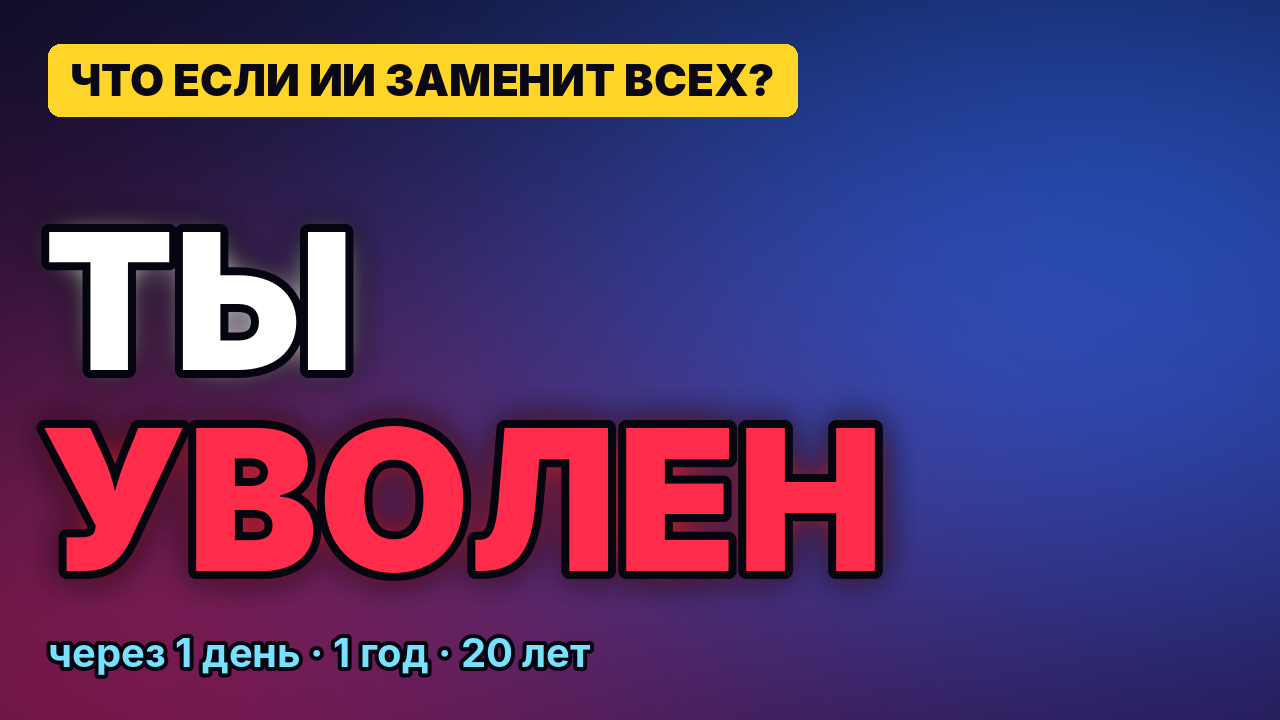
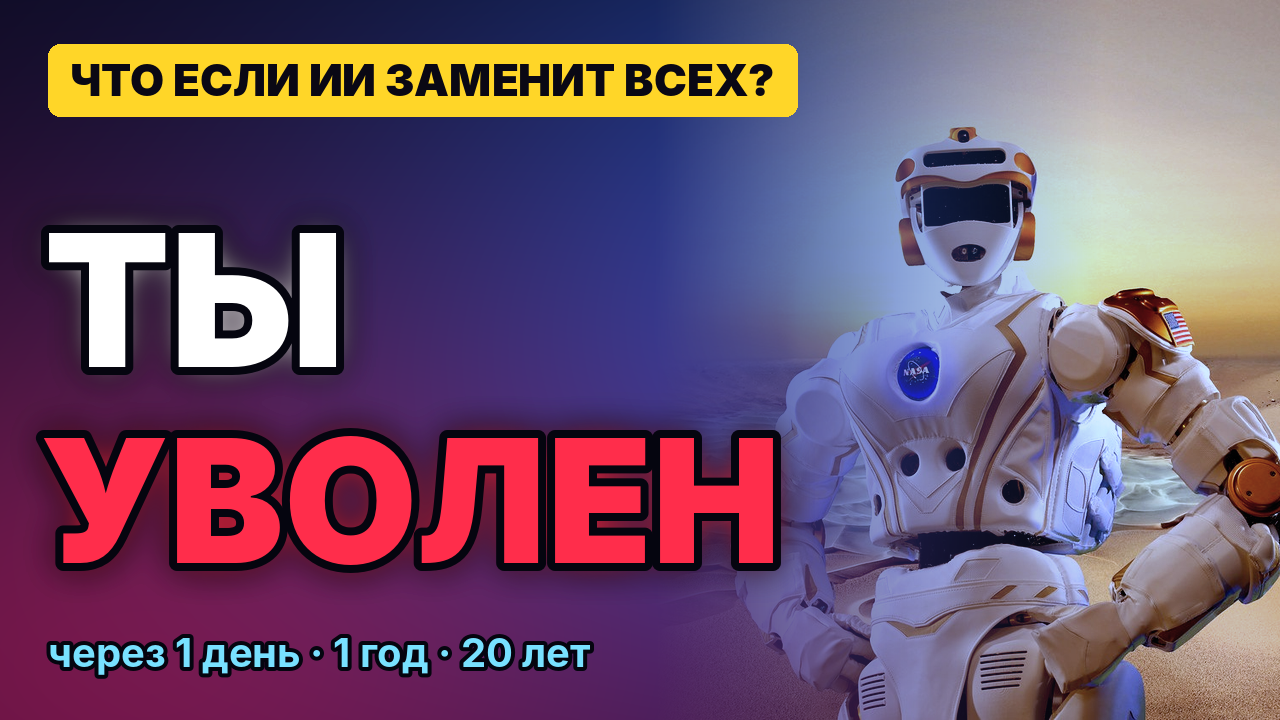
Pick final photos (Wikimedia + Openverse/Flickr), thumbnail with robot, credits
Claude-Session: https://claude.ai/code/session_01WPtja9hGc52C6fADWgZhhK

diff --git a/whatif_ai_jobs/docs.py b/whatif_ai_jobs/docs.py
@@ -127,15 +127,17 @@ def sources_md():
     lines += ["", "Сценарные элементы (обвал биржевого индекса, «утопия/антиутопия», сроки «день/месяц/год») — "
               "мысленный эксперимент; на экране помечены как иллюстрация сценария.", "",
               "## Изображения", "",
-              "Все фото — Wikimedia Commons, только лицензии, разрешающие коммерческое использование без "
-              "«копилефта»: Public domain, CC0, CC BY. Фото обработаны (цветокоррекция, кадрирование, движение камеры). "
+              "Фото — Wikimedia Commons и Flickr (поиск через Openverse). Только лицензии, разрешающие "
+              "коммерческое использование без «копилефта»: Public domain / Public Domain Mark, CC0, CC BY. "
+              "CC BY-SA, NC и ND не использовались. Фото обработаны (цветокоррекция, кадрирование, движение камеры). "
               "Инфографика, заставки, графики и превью нарисованы кодом (Python/Pillow) специально для ролика.", "",
-              "| Ключ | Файл | Автор | Лицензия | Ссылка |", "|---|---|---|---|---|"]
+              "| Ключ | Название | Автор | Лицензия | Источник | Ссылка |", "|---|---|---|---|---|---|"]
     for key, c in image_credits():
         author = re.sub(r"\s+", " ", c["author"]).replace("|", "/")[:80]
         title = c["title"].replace("File:", "").replace("|", "/")
         lic = c["license"] + (f" ({c['license_url']})" if c.get("license_url") else "")
-        lines.append(f"| {key} | {title} | {author} | {lic} | {c['page']} |")
+        src = c.get("source", "Wikimedia Commons")
+        lines.append(f"| {key} | {title} | {author} | {lic} | {src} | {c['page']} |")
     lines += ["", "## Музыка и звук", "",
               "Оригинальная процедурная электронная/эмбиент-музыка, сгенерированная кодом для этого ролика "
               "(модуль `ai_shorts_ru/shorts_ru/audio.py`): своя тема на каждую главу. Сторонних треков нет — "
@@ -163,10 +165,10 @@ def youtube_md():
 Источники:
 Goldman Sachs (2023) · McKinsey Global Institute «Agents, robots, and us» (2025) · WEF Future of Jobs Report 2025 · Microsoft Research (2025) · Kela/STM (Финляндия) · GiveDirectly (Кения) · SEED (Стоктон) · OpenResearch · CBO · USDA ERS · J. Bessen. Полный список ссылок — в закреплённом комментарии.
 
-Фото: Wikimedia Commons (Public domain / CC0 / CC BY, авторы указаны в закреплённом комментарии). Музыка: оригинальная. Голос: синтез речи.
+Фото: Wikimedia Commons и Flickr (Public domain / CC0 / CC BY, авторы — в закреплённом комментарии). Музыка: оригинальная. Голос: синтез речи.
 
 {HASHTAGS}"""
-    credits = ["Фото (Wikimedia Commons):"]
+    credits = ["Фото (Wikimedia Commons, Flickr):"]
     for key, c in image_credits():
         author = re.sub(r"\s+", " ", c["author"])[:60]
         credits.append(f"• {author} — {c['license']} — {c['page']}")

diff --git a/whatif_ai_jobs/fetch_openverse.py b/whatif_ai_jobs/fetch_openverse.py
@@ -61,7 +61,7 @@ def search(query, n):
     return out
 
 
-def main(only=None):
+def main(only=None, override=None):
     sys.path.insert(0, str(ROOT))
     from shots import ASSETS
     meta_path = ROOT / "build" / "images.json"
@@ -82,7 +82,7 @@ def main(only=None):
         have = [i for i in range(len(meta.get(key, []))) if (IMG / f"{key}_{i}.jpg").exists()]
         if have and not only:
             continue
-        cands = search(query, 3)
+        cands = search((override or {}).get(key, query), 3)
         got = []
         for c in cands:
             data = get(c["url"])
@@ -100,4 +100,6 @@ def main(only=None):
 
 
 if __name__ == "__main__":
-    main(set(sys.argv[1:]) or None)
+    args = sys.argv[1:]
+    ov = dict(a.split("=", 1) for a in args if "=" in a)     # ключ=новый|запрос
+    main({a.split("=", 1)[0] for a in args} or None, ov)

diff --git a/whatif_ai_jobs/render.py b/whatif_ai_jobs/render.py
@@ -709,10 +709,12 @@ class Renderer:
         order = self.choice.get(key, avail)
         if isinstance(order, int):
             order = [order] + [i for i in avail if i != order]
-        order = [i for i in order if i in avail]
-        if not order:
+        # элемент списка: номер варианта этого ключа или «другой_ключ_N» (фото из другого набора)
+        files = [IMG / f"{key}_{o}.jpg" if isinstance(o, int) else IMG / f"{o}.jpg" for o in order]
+        files = [f for f in files if f.exists()]
+        if not files:
             return None
-        return str(IMG / f"{key}_{order[n % len(order)]}.jpg")
+        return str(files[n % len(files)])
 
     def idx_at(self, t):
         import bisect

diff --git a/whatif_ai_jobs/sources.md b/whatif_ai_jobs/sources.md
@@ -46,22 +46,66 @@
 
 ## Изображения
 
-Все фото — Wikimedia Commons, только лицензии, разрешающие коммерческое использование без «копилефта»: Public domain, CC0, CC BY. Фото обработаны (цветокоррекция, кадрирование, движение камеры). Инфографика, заставки, графики и превью нарисованы кодом (Python/Pillow) специально для ролика.
+Фото — Wikimedia Commons и Flickr (поиск через Openverse). Только лицензии, разрешающие коммерческое использование без «копилефта»: Public domain / Public Domain Mark, CC0, CC BY. CC BY-SA, NC и ND не использовались. Фото обработаны (цветокоррекция, кадрирование, движение камеры). Инфографика, заставки, графики и превью нарисованы кодом (Python/Pillow) специально для ролика.
 
-| Ключ | Файл | Автор | Лицензия | Ссылка |
-|---|---|---|---|---|
-| office_empty | Empty office.jpg | Ged Carroll | CC BY 2.0 (https://creativecommons.org/licenses/by/2.0) | https://commons.wikimedia.org/wiki/File:Empty_office.jpg |
-| office_empty | Empty Oval Office in The White House - DPLA - a210b70429be57def74b3c6c603b6d89.jpg | President (1981-1989 : Reagan). White House Photographic Office. 1981-1989 | Public domain | https://commons.wikimedia.org/wiki/File:Empty_Oval_Office_in_The_White_House_-_DPLA_-_a210b70429be57def74b3c6c603b6d89.jpg |
-| office_empty | Photograph of the Oval Office Empty - DPLA - ee727a27b60aac2bf9c349dd57e47d0f.jpg | President (1993-2001 : Clinton). White House Photograph Office. 1/20/1993-1/20/2 | Public domain | https://commons.wikimedia.org/wiki/File:Photograph_of_the_Oval_Office_Empty_-_DPLA_-_ee727a27b60aac2bf9c349dd57e47d0f.jpg |
-| highway_night | Rangpur city highway at night 1.jpg | Cerium4B | CC0 (http://creativecommons.org/publicdomain/zero/1.0/deed.en) | https://commons.wikimedia.org/wiki/File:Rangpur_city_highway_at_night_1.jpg |
-| highway_night | National Highway during night at Lakhara.jpg | Ishanjyotibora | CC BY 4.0 (https://creativecommons.org/licenses/by/4.0) | https://commons.wikimedia.org/wiki/File:National_Highway_during_night_at_Lakhara.jpg |
-| highway_night | Rangpur city highway at night.jpg | Cerium4B | CC0 (http://creativecommons.org/publicdomain/zero/1.0/deed.en) | https://commons.wikimedia.org/wiki/File:Rangpur_city_highway_at_night.jpg |
-| crowd | Crowd crossing the street, Hungary 2011.jpg | Keymeulen | CC0 (http://creativecommons.org/publicdomain/zero/1.0/deed.en) | https://commons.wikimedia.org/wiki/File:Crowd_crossing_the_street,_Hungary_2011.jpg |
-| crowd | Corner of Stockton and Jackson Street, crowd, San Francisco (April 2007).jpg | Jennifer Woodard Maderazo | CC BY 2.0 (https://creativecommons.org/licenses/by/2.0) | https://commons.wikimedia.org/wiki/File:Corner_of_Stockton_and_Jackson_Street,_crowd,_San_Francisco_(April_2007).jpg |
-| crowd | Crowds of French patriots line the Champs Elysees-edit2.jpg | Jack Downey, U.S. Office of War Information | Public domain | https://commons.wikimedia.org/wiki/File:Crowds_of_French_patriots_line_the_Champs_Elysees-edit2.jpg |
-| finance_towers | Buildings in Financial District, Manhattan.jpg | Julian Lupyan | CC0 (http://creativecommons.org/publicdomain/zero/1.0/deed.en) | https://commons.wikimedia.org/wiki/File:Buildings_in_Financial_District,_Manhattan.jpg |
-| finance_towers | Financial District East Skyline, 2025.jpg | Julian Lupyan | CC0 (http://creativecommons.org/publicdomain/zero/1.0/deed.en) | https://commons.wikimedia.org/wiki/File:Financial_District_East_Skyline,_2025.jpg |
-| finance_towers | Skyline of Financial District, Manhattan, 2025.jpg | Julian Lupyan | CC0 (http://creativecommons.org/publicdomain/zero/1.0/deed.en) | https://commons.wikimedia.org/wiki/File:Skyline_of_Financial_District,_Manhattan,_2025.jpg |
+| Ключ | Название | Автор | Лицензия | Источник | Ссылка |
+|---|---|---|---|---|---|
+| office_empty | Empty office.jpg | Ged Carroll | CC BY 2.0 (https://creativecommons.org/licenses/by/2.0) | Wikimedia Commons | https://commons.wikimedia.org/wiki/File:Empty_office.jpg |
+| highway_night | National Highway during night at Lakhara.jpg | Ishanjyotibora | CC BY 4.0 (https://creativecommons.org/licenses/by/4.0) | Wikimedia Commons | https://commons.wikimedia.org/wiki/File:National_Highway_during_night_at_Lakhara.jpg |
+| crowd | Crowd crossing the street, Hungary 2011.jpg | Keymeulen | CC0 (http://creativecommons.org/publicdomain/zero/1.0/deed.en) | Wikimedia Commons | https://commons.wikimedia.org/wiki/File:Crowd_crossing_the_street,_Hungary_2011.jpg |
+| crowd | Corner of Stockton and Jackson Street, crowd, San Francisco (April 2007).jpg | Jennifer Woodard Maderazo | CC BY 2.0 (https://creativecommons.org/licenses/by/2.0) | Wikimedia Commons | https://commons.wikimedia.org/wiki/File:Corner_of_Stockton_and_Jackson_Street,_crowd,_San_Francisco_(April_2007).jpg |
+| finance_towers | Buildings in Financial District, Manhattan.jpg | Julian Lupyan | CC0 (http://creativecommons.org/publicdomain/zero/1.0/deed.en) | Wikimedia Commons | https://commons.wikimedia.org/wiki/File:Buildings_in_Financial_District,_Manhattan.jpg |
+| henry_ford | Andre Citroen rencontre Henry Ford Juin 1923.jpg | Unknown authorUnknown author | Public domain | Wikimedia Commons | https://commons.wikimedia.org/wiki/File:Andre_Citroen_rencontre_Henry_Ford_Juin_1923.jpg |
+| keynes | John Maynard Keynes 1929.jpg | Unknown authorUnknown author | Public domain | Wikimedia Commons | https://commons.wikimedia.org/wiki/File:John_Maynard_Keynes_1929.jpg |
+| laptop_night | laptop night - noche de laptops | 'thöR | CC BY 2.0 (https://creativecommons.org/licenses/by/2.0/) | Openverse / Flickr | https://www.flickr.com/photos/42428589@N00/495988527 |
+| laptop_night | This is how I like to admin | Jemimus | CC BY 2.0 (https://creativecommons.org/licenses/by/2.0/) | Openverse / Flickr | https://www.flickr.com/photos/12967790@N00/4285638187 |
+| laptop_night | Hacking | Johan.V. | CC BY 2.0 (https://creativecommons.org/licenses/by/2.0/) | Openverse / Flickr | https://www.flickr.com/photos/26519208@N04/2498157861 |
+| call_center | Xceed Call centre in Cairo | markhillary | CC BY 2.0 (https://creativecommons.org/licenses/by/2.0/) | Openverse / Flickr | https://www.flickr.com/photos/56087830@N00/3309506859 |
+| call_center | Vodafone call centre | markhillary | CC BY 2.0 (https://creativecommons.org/licenses/by/2.0/) | Openverse / Flickr | https://www.flickr.com/photos/56087830@N00/3309490947 |
+| electrician | Electrician | garryknight | CC BY 2.0 (https://creativecommons.org/licenses/by/2.0/) | Openverse / Flickr | https://www.flickr.com/photos/8176740@N05/15657882247 |
+| electrician | Makita P51851 96 Piece Electricians Kit | toolstop | CC BY 2.0 (https://creativecommons.org/licenses/by/2.0/) | Openverse / Flickr | https://www.flickr.com/photos/42408834@N06/5330227632 |
+| plumber | Keith the plumber Project 365(2) Day 329 | Keith Williamson | CC BY 2.0 (https://creativecommons.org/licenses/by/2.0/) | Openverse / Flickr | https://www.flickr.com/photos/34673186@N03/5306295850 |
+| empty_street | Empty Streets of Birmingham | u07ch | CC BY 2.0 (https://creativecommons.org/licenses/by/2.0/) | Openverse / Flickr | https://www.flickr.com/photos/76705972@N00/29251553196 |
+| empty_street | Empty Streets | lupita.ala | CC BY 2.0 (https://creativecommons.org/licenses/by/2.0/) | Openverse / Flickr | https://www.flickr.com/photos/75691612@N08/6862658630 |
+| park_people | Tai Chi at the People's Park | Wilson Hui | CC BY 2.0 (https://creativecommons.org/licenses/by/2.0/) | Openverse / Flickr | https://www.flickr.com/photos/51942038@N04/12097239876 |
+| atm | automated teller machine machine | lsiegert | CC BY 2.0 (https://creativecommons.org/licenses/by/2.0/) | Openverse / Flickr | https://www.flickr.com/photos/13127104@N08/3334892258 |
+| atm | Glass Tellers | wwward0 | CC BY 2.0 (https://creativecommons.org/licenses/by/2.0/) | Openverse / Flickr | https://www.flickr.com/photos/15802578@N00/18418392694 |
+| mall_empty | Hong Kong: Empty Mall | Yiie | CC BY 2.0 (https://creativecommons.org/licenses/by/2.0/) | Openverse / Flickr | https://www.flickr.com/photos/7342411@N02/4720347876 |
+| warehouse_robot | SpaceX Octaweb | jurvetson | CC BY 2.0 (https://creativecommons.org/licenses/by/2.0/) | Openverse / Flickr | https://www.flickr.com/photos/44124348109@N01/8975298066 |
+| car_robots | 3D Printshow 2014 London - Industrial robot 3D printer v02 | Creative Tools | CC BY 2.0 (https://creativecommons.org/licenses/by/2.0/) | Openverse / Flickr | https://www.flickr.com/photos/33907867@N02/14964195639 |
+| stock_exchange | New York Stock Exchange | David Blaikie | CC BY 2.0 (https://creativecommons.org/licenses/by/2.0/) | Openverse / Flickr | https://www.flickr.com/photos/12568962@N00/3448030730 |
+| banknotes | US dollars and Euros - cash banknotes | Mark Hodson Photos | CC BY 2.0 (https://creativecommons.org/licenses/by/2.0/) | Openverse / Flickr | https://www.flickr.com/photos/20538653@N00/14856861681 |
+| helsinki | Helsinki Cathedral, White Night | Dimitry B | CC BY 2.0 (https://creativecommons.org/licenses/by/2.0/) | Openverse / Flickr | https://www.flickr.com/photos/61533954@N00/9168343124 |
+| helsinki | On the train - Helsinki, Finland - Black and white street photography | Giuseppe Milo (www.pixael.com) | CC BY 2.0 (https://creativecommons.org/licenses/by/2.0/) | Openverse / Flickr | https://www.flickr.com/photos/87690240@N03/27387081943 |
+| kenya_village | Dennis Refugee kid in Mt Kenya Village | Mobilephotos@heidenstrom | CC BY 2.0 (https://creativecommons.org/licenses/by/2.0/) | Openverse / Flickr | https://www.flickr.com/photos/38841280@N03/5554867741 |
+| kenya_village | Masai Mara Tribe Women 2 | The Dilly Lama | CC BY 2.0 (https://creativecommons.org/licenses/by/2.0/) | Openverse / Flickr | https://www.flickr.com/photos/50169083@N00/1199545090 |
+| stockton | Deep Water Channel, Stockton, California. Sunset. | sonstroem | CC BY 2.0 (https://creativecommons.org/licenses/by/2.0/) | Openverse / Flickr | https://www.flickr.com/photos/96964826@N05/31890729246 |
+| coworking | Voisins Coworking / Cafe — 2014-12-03 | Manuel Schmalstieg | CC BY 2.0 (https://creativecommons.org/licenses/by/2.0/) | Openverse / Flickr | https://www.flickr.com/photos/97179825@N00/15751933467 |
+| coworking | Voisins Coworking / Cafe — 2014-12-03 | Manuel Schmalstieg | CC BY 2.0 (https://creativecommons.org/licenses/by/2.0/) | Openverse / Flickr | https://www.flickr.com/photos/97179825@N00/15911884516 |
+| city_night | Oregon City Nights | Ian Sane | CC BY 2.0 (https://creativecommons.org/licenses/by/2.0/) | Openverse / Flickr | https://www.flickr.com/photos/31246066@N04/4210502680 |
+| city_night | City Night Sky | tux0racer | CC BY 2.0 (https://creativecommons.org/licenses/by/2.0/) | Openverse / Flickr | https://www.flickr.com/photos/87060703@N08/8300317020 |
+| textile_mill | No Known Restrictions: Vice-President Lyndon Baines Johnson at Textile Mill, South Vietnam by Thomas J. O'Halloran, May 1961 (LOC) | pingnews.com | Public Domain Mark 1.0 (https://creativecommons.org/publicdomain/mark/1.0/) | Openverse / Flickr | https://www.flickr.com/photos/39735679@N00/501634331 |
+| textile_mill | Abandoned Textile Mill (5) | janbommes | CC BY 2.0 (https://creativecommons.org/licenses/by/2.0/) | Openverse / Flickr | https://www.flickr.com/photos/30036111@N04/10779755053 |
+| luddites | Small power loom | quinet | CC BY 2.0 (https://creativecommons.org/licenses/by/2.0/) | Openverse / Flickr | https://www.flickr.com/photos/91994044@N00/28854325518 |
+| industrial_revolution | The Engine of the Industrial Revolution | selkovjr | CC BY 2.0 (https://creativecommons.org/licenses/by/2.0/) | Openverse / Flickr | https://www.flickr.com/photos/14192663@N07/2173614324 |
+| model_t | Tourists in a Ford Model T at the 'Devil's Den' at Gettysburg Battlefield in Pennsylvania, c1910-1915 | crackdog | Public Domain Mark 1.0 (https://creativecommons.org/publicdomain/mark/1.0/) | Openverse / Flickr | https://www.flickr.com/photos/88645472@N00/6239413521 |
+| model_t | Ford Model T, Yakima, Washington, 1923 | crackdog | Public Domain Mark 1.0 (https://creativecommons.org/publicdomain/mark/1.0/) | Openverse / Flickr | https://www.flickr.com/photos/88645472@N00/4943347151 |
+| model_t | 1916 Ford Model T Speedster, March 26, 1916, California | crackdog | Public Domain Mark 1.0 (https://creativecommons.org/publicdomain/mark/1.0/) | Openverse / Flickr | https://www.flickr.com/photos/88645472@N00/5643782311 |
+| data_center | Data Center Network Core | motleypixel | CC BY 2.0 (https://creativecommons.org/licenses/by/2.0/) | Openverse / Flickr | https://www.flickr.com/photos/16894864@N05/6239564720 |
+| trading_screens | Tickers | francisco.j.gonzalez | CC BY 2.0 (https://creativecommons.org/licenses/by/2.0/) | Openverse / Flickr | https://www.flickr.com/photos/54752966@N06/8085342806 |
+| window_man | untitled | Thomas Leuthard | CC BY 2.0 (https://creativecommons.org/licenses/by/2.0/) | Openverse / Flickr | https://www.flickr.com/photos/41346951@N05/14981603135 |
+| window_man | Another black and with photo with an old man in a window | Cristian Ştefănescu | CC BY 2.0 (https://creativecommons.org/licenses/by/2.0/) | Openverse / Flickr | https://www.flickr.com/photos/46145615@N02/14171645229 |
+| team_meeting | Liip team meeting | lejoe | CC BY 2.0 (https://creativecommons.org/licenses/by/2.0/) | Openverse / Flickr | https://www.flickr.com/photos/21458229@N00/2800660239 |
+| green_city | Green City | alykat | CC BY 2.0 (https://creativecommons.org/licenses/by/2.0/) | Openverse / Flickr | https://www.flickr.com/photos/80081757@N00/5850122 |
+| artist | Art supplies | Average Jane | CC BY 2.0 (https://creativecommons.org/licenses/by/2.0/) | Openverse / Flickr | https://www.flickr.com/photos/64401168@N00/7624350518 |
+| runners | Stockholm Marathon 2006 | Peppe702 | CC BY 2.0 (https://creativecommons.org/licenses/by/2.0/) | Openverse / Flickr | https://www.flickr.com/photos/81812830@N03/7976978042 |
+| family_picnic | Picnic + ma-lu | luis perez | CC BY 2.0 (https://creativecommons.org/licenses/by/2.0/) | Openverse / Flickr | https://www.flickr.com/photos/65092670@N00/4969047988 |
+| slum_towers | Dubai Slums Do Exist | Augapfel | CC BY 2.0 (https://creativecommons.org/licenses/by/2.0/) | Openverse / Flickr | https://www.flickr.com/photos/47038415@N00/3250006311 |
+| programmer | Programmers | Phillie Casablanca | CC BY 2.0 (https://creativecommons.org/licenses/by/2.0/) | Openverse / Flickr | https://www.flickr.com/photos/19451080@N00/3353381517 |
+| programmer | The Exemplary Programmer | illustir | CC BY 2.0 (https://creativecommons.org/licenses/by/2.0/) | Openverse / Flickr | https://www.flickr.com/photos/12505664@N00/9311087323 |
+| programmer | Schipul programmers 2010 (+ special guest Adil) | tendenci | CC BY 2.0 (https://creativecommons.org/licenses/by/2.0/) | Openverse / Flickr | https://www.flickr.com/photos/107430063@N05/13806684563 |
+| humanoid | Humanoid Robot Uprising | jurvetson | CC BY 2.0 (https://creativecommons.org/licenses/by/2.0/) | Openverse / Flickr | https://www.flickr.com/photos/44124348109@N01/52023220709 |
+| humanoid | NASA R5 Valkyrie humanoid robot | Futurilla | CC0 1.0 (https://creativecommons.org/publicdomain/zero/1.0/) | Openverse / Flickr | https://www.flickr.com/photos/52067454@N00/29841969793 |
 
 ## Музыка и звук
 

diff --git a/whatif_ai_jobs/youtube.md b/whatif_ai_jobs/youtube.md
@@ -28,12 +28,12 @@
 Источники:
 Goldman Sachs (2023) · McKinsey Global Institute «Agents, robots, and us» (2025) · WEF Future of Jobs Report 2025 · Microsoft Research (2025) · Kela/STM (Финляндия) · GiveDirectly (Кения) · SEED (Стоктон) · OpenResearch · CBO · USDA ERS · J. Bessen. Полный список ссылок — в закреплённом комментарии.
 
-Фото: Wikimedia Commons (Public domain / CC0 / CC BY, авторы указаны в закреплённом комментарии). Музыка: оригинальная. Голос: синтез речи.
+Фото: Wikimedia Commons и Flickr (Public domain / CC0 / CC BY, авторы — в закреплённом комментарии). Музыка: оригинальная. Голос: синтез речи.
 
 #ЧтоЕсли #ИИ #БудущееРаботы
 ```
 
-Длина описания: 1579 символов (лимит 5000).
+Длина описания: 1582 символов (лимит 5000).
 
 ## Теги (15)
 
@@ -60,22 +60,66 @@ Goldman Sachs (2023) · McKinsey Global Institute «Agents, robots, and us» (20
 • https://0-www-imf-org.library.svsu.edu/external/pubs/ft/fandd/2015/03/pdf/bessen.pdf
 • https://en.wikipedia.org/wiki/Economic_Possibilities_for_our_Grandchildren
 
-Фото (Wikimedia Commons):
+Фото (Wikimedia Commons, Flickr):
 • Ged Carroll — CC BY 2.0 — https://commons.wikimedia.org/wiki/File:Empty_office.jpg
-• President (1981-1989 : Reagan). White House Photographic Off — Public domain — https://commons.wikimedia.org/wiki/File:Empty_Oval_Office_in_The_White_House_-_DPLA_-_a210b70429be57def74b3c6c603b6d89.jpg
-• President (1993-2001 : Clinton). White House Photograph Offi — Public domain — https://commons.wikimedia.org/wiki/File:Photograph_of_the_Oval_Office_Empty_-_DPLA_-_ee727a27b60aac2bf9c349dd57e47d0f.jpg
-• Cerium4B — CC0 — https://commons.wikimedia.org/wiki/File:Rangpur_city_highway_at_night_1.jpg
 • Ishanjyotibora — CC BY 4.0 — https://commons.wikimedia.org/wiki/File:National_Highway_during_night_at_Lakhara.jpg
-• Cerium4B — CC0 — https://commons.wikimedia.org/wiki/File:Rangpur_city_highway_at_night.jpg
 • Keymeulen — CC0 — https://commons.wikimedia.org/wiki/File:Crowd_crossing_the_street,_Hungary_2011.jpg
 • Jennifer Woodard Maderazo — CC BY 2.0 — https://commons.wikimedia.org/wiki/File:Corner_of_Stockton_and_Jackson_Street,_crowd,_San_Francisco_(April_2007).jpg
-• Jack Downey, U.S. Office of War Information — Public domain — https://commons.wikimedia.org/wiki/File:Crowds_of_French_patriots_line_the_Champs_Elysees-edit2.jpg
 • Julian Lupyan — CC0 — https://commons.wikimedia.org/wiki/File:Buildings_in_Financial_District,_Manhattan.jpg
-• Julian Lupyan — CC0 — https://commons.wikimedia.org/wiki/File:Financial_District_East_Skyline,_2025.jpg
-• Julian Lupyan — CC0 — https://commons.wikimedia.org/wiki/File:Skyline_of_Financial_District,_Manhattan,_2025.jpg
+• Unknown authorUnknown author — Public domain — https://commons.wikimedia.org/wiki/File:Andre_Citroen_rencontre_Henry_Ford_Juin_1923.jpg
+• Unknown authorUnknown author — Public domain — https://commons.wikimedia.org/wiki/File:John_Maynard_Keynes_1929.jpg
+• 'thöR — CC BY 2.0 — https://www.flickr.com/photos/42428589@N00/495988527
+• Jemimus — CC BY 2.0 — https://www.flickr.com/photos/12967790@N00/4285638187
+• Johan.V. — CC BY 2.0 — https://www.flickr.com/photos/26519208@N04/2498157861
+• markhillary — CC BY 2.0 — https://www.flickr.com/photos/56087830@N00/3309506859
+• markhillary — CC BY 2.0 — https://www.flickr.com/photos/56087830@N00/3309490947
+• garryknight — CC BY 2.0 — https://www.flickr.com/photos/8176740@N05/15657882247
+• toolstop — CC BY 2.0 — https://www.flickr.com/photos/42408834@N06/5330227632
+• Keith Williamson — CC BY 2.0 — https://www.flickr.com/photos/34673186@N03/5306295850
+• u07ch — CC BY 2.0 — https://www.flickr.com/photos/76705972@N00/29251553196
+• lupita.ala — CC BY 2.0 — https://www.flickr.com/photos/75691612@N08/6862658630
+• Wilson Hui — CC BY 2.0 — https://www.flickr.com/photos/51942038@N04/12097239876
+• lsiegert — CC BY 2.0 — https://www.flickr.com/photos/13127104@N08/3334892258
+• wwward0 — CC BY 2.0 — https://www.flickr.com/photos/15802578@N00/18418392694
+• Yiie — CC BY 2.0 — https://www.flickr.com/photos/7342411@N02/4720347876
+• jurvetson — CC BY 2.0 — https://www.flickr.com/photos/44124348109@N01/8975298066
+• Creative Tools — CC BY 2.0 — https://www.flickr.com/photos/33907867@N02/14964195639
+• David Blaikie — CC BY 2.0 — https://www.flickr.com/photos/12568962@N00/3448030730
+• Mark Hodson Photos — CC BY 2.0 — https://www.flickr.com/photos/20538653@N00/14856861681
+• Dimitry B — CC BY 2.0 — https://www.flickr.com/photos/61533954@N00/9168343124
+• Giuseppe Milo (www.pixael.com) — CC BY 2.0 — https://www.flickr.com/photos/87690240@N03/27387081943
+• Mobilephotos@heidenstrom — CC BY 2.0 — https://www.flickr.com/photos/38841280@N03/5554867741
+• The Dilly Lama — CC BY 2.0 — https://www.flickr.com/photos/50169083@N00/1199545090
+• sonstroem — CC BY 2.0 — https://www.flickr.com/photos/96964826@N05/31890729246
+• Manuel Schmalstieg — CC BY 2.0 — https://www.flickr.com/photos/97179825@N00/15751933467
+• Manuel Schmalstieg — CC BY 2.0 — https://www.flickr.com/photos/97179825@N00/15911884516
+• Ian Sane — CC BY 2.0 — https://www.flickr.com/photos/31246066@N04/4210502680
+• tux0racer — CC BY 2.0 — https://www.flickr.com/photos/87060703@N08/8300317020
+• pingnews.com — Public Domain Mark 1.0 — https://www.flickr.com/photos/39735679@N00/501634331
+• janbommes — CC BY 2.0 — https://www.flickr.com/photos/30036111@N04/10779755053
+• quinet — CC BY 2.0 — https://www.flickr.com/photos/91994044@N00/28854325518
+• selkovjr — CC BY 2.0 — https://www.flickr.com/photos/14192663@N07/2173614324
+• crackdog — Public Domain Mark 1.0 — https://www.flickr.com/photos/88645472@N00/6239413521
+• crackdog — Public Domain Mark 1.0 — https://www.flickr.com/photos/88645472@N00/4943347151
+• crackdog — Public Domain Mark 1.0 — https://www.flickr.com/photos/88645472@N00/5643782311
+• motleypixel — CC BY 2.0 — https://www.flickr.com/photos/16894864@N05/6239564720
+• francisco.j.gonzalez — CC BY 2.0 — https://www.flickr.com/photos/54752966@N06/8085342806
+• Thomas Leuthard — CC BY 2.0 — https://www.flickr.com/photos/41346951@N05/14981603135
+• Cristian Ştefănescu — CC BY 2.0 — https://www.flickr.com/photos/46145615@N02/14171645229
+• lejoe — CC BY 2.0 — https://www.flickr.com/photos/21458229@N00/2800660239
+• alykat — CC BY 2.0 — https://www.flickr.com/photos/80081757@N00/5850122
+• Average Jane — CC BY 2.0 — https://www.flickr.com/photos/64401168@N00/7624350518
+• Peppe702 — CC BY 2.0 — https://www.flickr.com/photos/81812830@N03/7976978042
+• luis perez — CC BY 2.0 — https://www.flickr.com/photos/65092670@N00/4969047988
+• Augapfel — CC BY 2.0 — https://www.flickr.com/photos/47038415@N00/3250006311
+• Phillie Casablanca — CC BY 2.0 — https://www.flickr.com/photos/19451080@N00/3353381517
+• illustir — CC BY 2.0 — https://www.flickr.com/photos/12505664@N00/9311087323
+• tendenci — CC BY 2.0 — https://www.flickr.com/photos/107430063@N05/13806684563
+• jurvetson — CC BY 2.0 — https://www.flickr.com/photos/44124348109@N01/52023220709
+• Futurilla — CC0 1.0 — https://www.flickr.com/photos/52067454@N00/29841969793
 ```
 
-Длина: 3161 символов (лимит комментария 10 000).
+Длина: 6530 символов (лимит комментария 10 000).
 
 ## Конечная заставка
 
